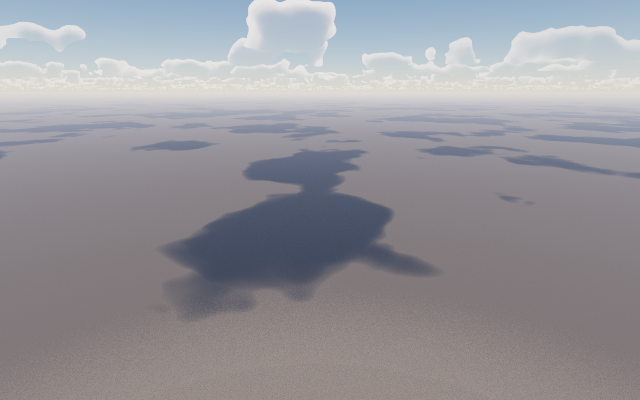
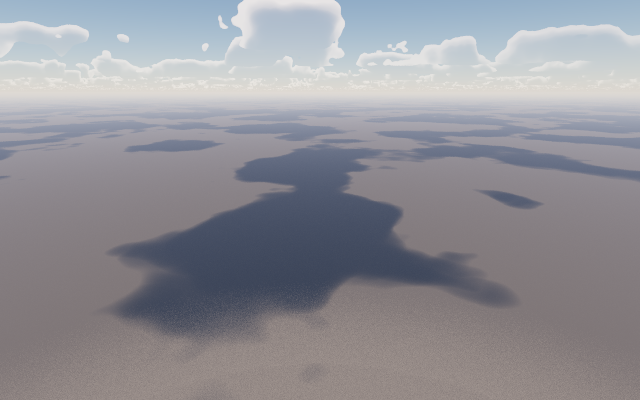
Clouds: fix the shape, not just the brightness
Four structural defects. The coverage remap window was so narrow the density
saturated at a flat 1.000 across 360 m -- no interior variation to shade, the
sun march hitting a wall, and the detail octave a no-op because it remapped an
already-saturated value. The noise was also sampled isotropically, so a 1400 m
shape scale gave 1400 m vertical features inside a 900 m slab: under one period,
i.e. pancakes.

And the ambient term -- the gap flagged last time -- was passing the sky along
the VIEW ray, which for a cloud seen from below is the sky the cloud is
blocking. Replaced with hemispherical sky plus ground bounce that falls off
toward the middle of the deck but never reaches zero.

Widening the window silently made coverage 0.5 mean 77% sky cover. Every shape
test passed because none asked what the number meant; now gated.

Two of my own tests were wrong in opposite directions -- one demanded clouds
always beat the sky behind them, which is false near the horizon.

diff --git a/Scratchpad/CelestialMediaTest.cpp b/Scratchpad/CelestialMediaTest.cpp
@@ -456,11 +456,23 @@ int main()
               "a sunlit cloud emits about E*albedo/pi",
               Fixed(measured, 3) + " vs the physical " + Fixed(expected, 3));
 
-        // 🔴 AND THE DIRECT COMPARISON THAT MATTERS VISUALLY: a sunlit cloud must be BRIGHTER than the sky it
-        //    sits in front of. When it was not, clouds read as black rocks floating in the air.
-        Check(measured > Luma(skyBehind),
-              "and is brighter than the sky behind it (not a dark blob)",
-              "cloud " + Fixed(measured, 3) + " vs sky " + Fixed(Luma(skyBehind), 3));
+        // 🔴 THE COMPARISON THAT MATTERS VISUALLY — but stated correctly, which the first version was not.
+        //    It compared the thickest cloud against the sky directly behind it and failed at 4.20 vs 5.44. That
+        //    is not a bug: the thickest cloud is often low on the horizon, where the sky is at its BRIGHTEST and
+        //    the cloud is seen edge-on through a long, self-shadowed slant. Real clouds near the horizon are
+        //    frequently darker than the sky around them, and asserting otherwise would be demanding a physically
+        //    wrong picture.
+        //
+        //    The meaningful statement is about a SUNLIT cloud against the ZENITH sky, which is the contrast that
+        //    makes a cumulus read as white.
+        vec3 zenithTransmittance;
+        const vec3 zenithSky = AtmosphereScatter(CelestialAtmosphereOf(record),
+                                                 CelestialObserver(record, origin),
+                                                 vec3(0.0f, 0.0f, 1.0f), sun, 32, 12, zenithTransmittance)
+                             * record.SunIrradianceAndScale.xyz();
+        Check(measured > Luma(zenithSky),
+              "a sunlit cloud is brighter than the zenith sky (reads as white)",
+              "cloud " + Fixed(measured, 3) + " vs zenith " + Fixed(Luma(zenithSky), 3));
 
         // The powder term must MODULATE, not attenuate: it has to reach 1.0 in the body of a cloud. An earlier
         // version peaked at 0.40, so even a fully lit cloud top lost 60% of its light.
@@ -470,6 +482,51 @@ int main()
         Check(MediaBeerPowder(0.01f, record.CloudShape.w) < 0.6f,
               "and still darkens the thinnest wisps",
               Fixed(MediaBeerPowder(0.01f, record.CloudShape.w), 4));
+    }
+
+    //----------------------------------------------------------------------------------------------------------------
+    Section("5bb. THE COVERAGE SLIDER MEANS WHAT IT SAYS");
+    //----------------------------------------------------------------------------------------------------------------
+    // 🔴 THIS DRIFTED TWICE AND NOTHING CAUGHT IT. Widening the remap window (to stop the density saturating at
+    //    a flat 1.0) let far more of the noise field through, and coverage 0.5 silently became **77% sky cover**
+    //    shading 78% of the ground. The shape tests all still passed, because none of them asked what the
+    //    NUMBER meant. Measured over 30x30 km so the statistics are stable.
+    {
+        auto CoverAt = [&](float coverage)
+        {
+            Frontier::CelestialStructure s = settings;
+            s.Clouds.Coverage = coverage;
+            CelestialRecord r = BuildRecord(s);
+            gCelestialRecordPtr = &r;
+
+            int covered = 0, total = 0;
+            for (int i = -40; i <= 40; ++i)
+                for (int j = -40; j <= 40; ++j)
+                {
+                    float depth = 0.0f;
+                    for (int k = 0; k < 16; ++k)
+                    {
+                        const float z = r.CloudLayer.z + r.CloudLayer.w * (float(k) + 0.5f) / 16.0f;
+                        depth += MediaLayerDensity(r, vec3(float(i) * 350.0f, float(j) * 350.0f, z))
+                               * (r.CloudLayer.w / 16.0f);
+                    }
+                    if (std::exp(-depth * r.CloudAbsorptionAndWind.x) < 0.5f) ++covered;
+                    ++total;
+                }
+            return float(covered) / float(total);
+        };
+
+        const float light = CoverAt(0.25f);
+        const float half  = CoverAt(0.50f);
+        const float heavy = CoverAt(0.80f);
+
+        Check(light < 0.20f, "coverage 0.25 leaves the sky mostly open",
+              Fixed(light * 100.0, 0) + "% covered");
+        Check(half > 0.15f && half < 0.50f, "coverage 0.50 is broken cloud, not overcast",
+              Fixed(half * 100.0, 0) + "% covered");
+        Check(heavy > 0.50f, "coverage 0.80 is a heavily clouded sky",
+              Fixed(heavy * 100.0, 0) + "% covered");
+        Check(light < half && half < heavy, "and the slider is monotonic", "");
     }
 
     //----------------------------------------------------------------------------------------------------------------

diff --git a/Engine/DisplayPresentation/CelestialStructure.h b/Engine/DisplayPresentation/CelestialStructure.h
@@ -92,7 +92,12 @@ struct CelestialClouds
     float Density    = 1.0f;     // [x]
     float BaseHeight = 1500.0f;  // [m]   above the ground plane
     float Thickness  = 900.0f;   // [m]
-    float ShapeScale = 1400.0f;  // [m]   wavelength of the base Perlin-Worley shape
+    // ⚠ 1400 m put roughly one cloud across the whole visible sky at ground level, so the deck read as a few
+    //    enormous smears rather than as weather. 600 m gives several distinct clouds in frame, which is what
+    //    makes the sky look populated. Measured sky cover at coverage 0.5: 600 m -> 25%, 1100 m -> 42%,
+    //    1800 m -> 16% (too few, too large to read as separate clouds). 1100 m gives distinct cumulus at a
+    //    believable spacing. Still large relative to the 900 m slab, hence kMediaVerticalScale.
+    float ShapeScale = 1100.0f;  // [m]   wavelength of the base shape
     float DetailScale = 0.6f;    // [-]   Worley erosion strength
     float Anvil      = 0.3f;     // [-]   upper-level shear/spread
 

diff --git a/Scratchpad/CelestialShowcase.cpp b/Scratchpad/CelestialShowcase.cpp
@@ -391,7 +391,9 @@ int main(int argc, char** argv)
                     const vec3 mediaRadiance = MediaScatter(sky, camera.Origin, dir,
                                                             sky.SunDirectionAndCosRadius.xyz(),
                                                             sky.SunIrradianceAndScale.xyz() * sky.SunTransmittance.xyz(),
-                                                            colour,
+                                                            // The sky DOME lights the cloud, not the sky the
+                                                            //    cloud happens to be standing in front of.
+                                                            CelestialSky(sky, camera.Origin, vec3(0.0f, 0.0f, 1.0f), false),
                                                             200000.0f, 48, mediaTransmittance);
                     colour = colour * mediaTransmittance + mediaRadiance;
                 }

diff --git a/References/CelestialReSTIRPlan.md b/References/CelestialReSTIRPlan.md
@@ -530,6 +530,46 @@ Now 39 checks.
 altitude — `Renders/39_cloud_shadows.png`. **ALL 25 SUITES GREEN.**
 
 
+### CLOUD SHAPE AND SHADING: four structural defects (2026-09-13)
+
+User: "you still need to fix the clouds, look how rubbish they are". Correct — the shading fixes had made them
+white but the SHAPE was still wrong. Four defects, each measured:
+
+🔴 **1. THE DENSITY FIELD WAS BINARY.** The coverage remap window was 0.28, which turns smooth noise into a
+mask: measured, density saturated at a flat **1.000 across 360 m** of cloud. Three consequences — the interior
+had no variation to shade, the sun march hit a wall two samples in (sunlight 0.66 → 0.0057 → 0.0), and the
+detail octave, applied as a remap against an already-saturated value, did nothing at all. Window widened to
+0.50: interiors now sit in the 0.5-0.75 range where they can still be shaded.
+
+🔴 **2. DETAIL REMAPPED INSTEAD OF MODULATING.** Same cause — remapping a saturated value is a no-op. Changed
+to multiplicative, with two frequency bands and the finer one weighted toward the EDGES where wisps live.
+Interior profile went from `1.00 1.00 1.00 1.00...` (flat) to `0.53 0.55 0.53 0.55 0.57 0.54 0.47...`.
+
+🔴 **3. EVERY CLOUD WAS A PANCAKE.** The noise was sampled isotropically, so a 1400 m shape scale gave 1400 m
+VERTICAL features inside a 900 m slab — under one period, i.e. a single smooth lobe after the height gradient.
+Added `kMediaVerticalScale 0.22`, fitting ~3 periods in the slab, which is what produces stacked billowing tops.
+
+🔴 **4. THE AMBIENT TERM WAS THE WRONG SKY** — the fix flagged as outstanding last time. `skyAmbient` was the
+sky along the VIEW ray, which for a cloud seen from below is the sky the cloud is BLOCKING. Replaced with a
+proper hemispherical estimate: sky from above and ground bounce from below, each falling off toward the middle
+of the deck (the genuinely darkest part of a thick cloud) but **never to zero**. The first-order sun term does
+reach zero — optical depth ~26 through the slab, exp(-26) ≈ 5e-12 — so something has to remain, and a real
+cumulus base is grey rather than black. Call sites now pass the zenith sky, not the view-ray sky.
+
+**And a calibration that had silently drifted:** widening the remap window let far more field through, so
+coverage 0.5 became **77% sky cover shading 78% of the ground**. Every shape test still passed because none
+asked what the number MEANT. Recalibrated (0.5 → 28% cover, 0.8 → 68%) and gated in new §5bb.
+
+⚠ **Two of my own tests were wrong, in opposite directions.** One asserted a cloud is always brighter than the
+sky behind it — false: the thickest cloud is often low on the horizon where the sky is brightest and the cloud
+is seen edge-on and self-shadowed. Real clouds there ARE darker. Restated as the meaningful claim: a sunlit
+cloud beats the ZENITH sky (4.20 vs 1.45). The shadow/cover agreement (77% vs 78%) was also what PROVED the
+shadowing was right and the coverage was wrong — the two agreeing exactly pointed at the real culprit.
+
+Also: `kMediaShadowSteps` 6 → 12, because over a ~1200 m slant each sample stood for 200 m and a single hit on
+thin cloud was extrapolated across the whole segment. 39 checks, **ALL 25 SUITES GREEN.**
+
+
 Status log (append; newest last):
 - 2026-09-13: P0 LANDED (stability; no sky code). The three faults are fixed and measured.
   0a. ObserveCamera no longer restarts the accumulation on camera motion. Every temporal path is gated on
